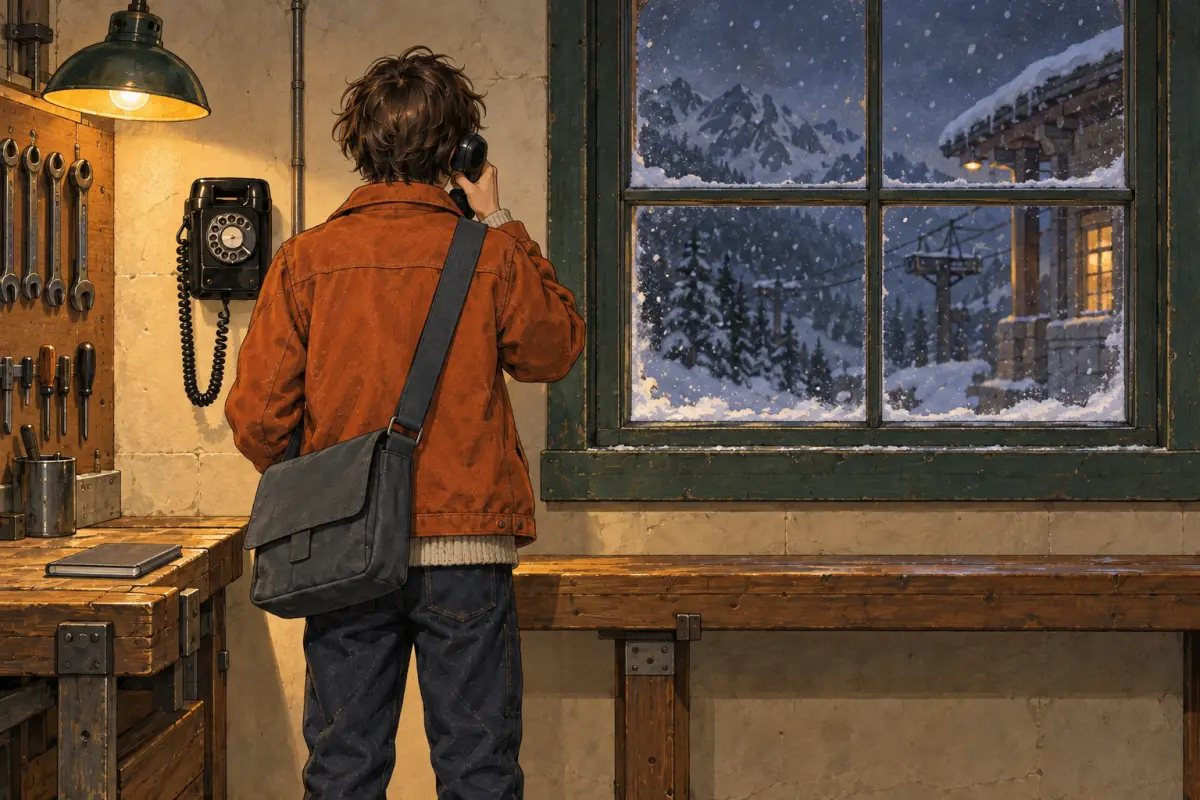
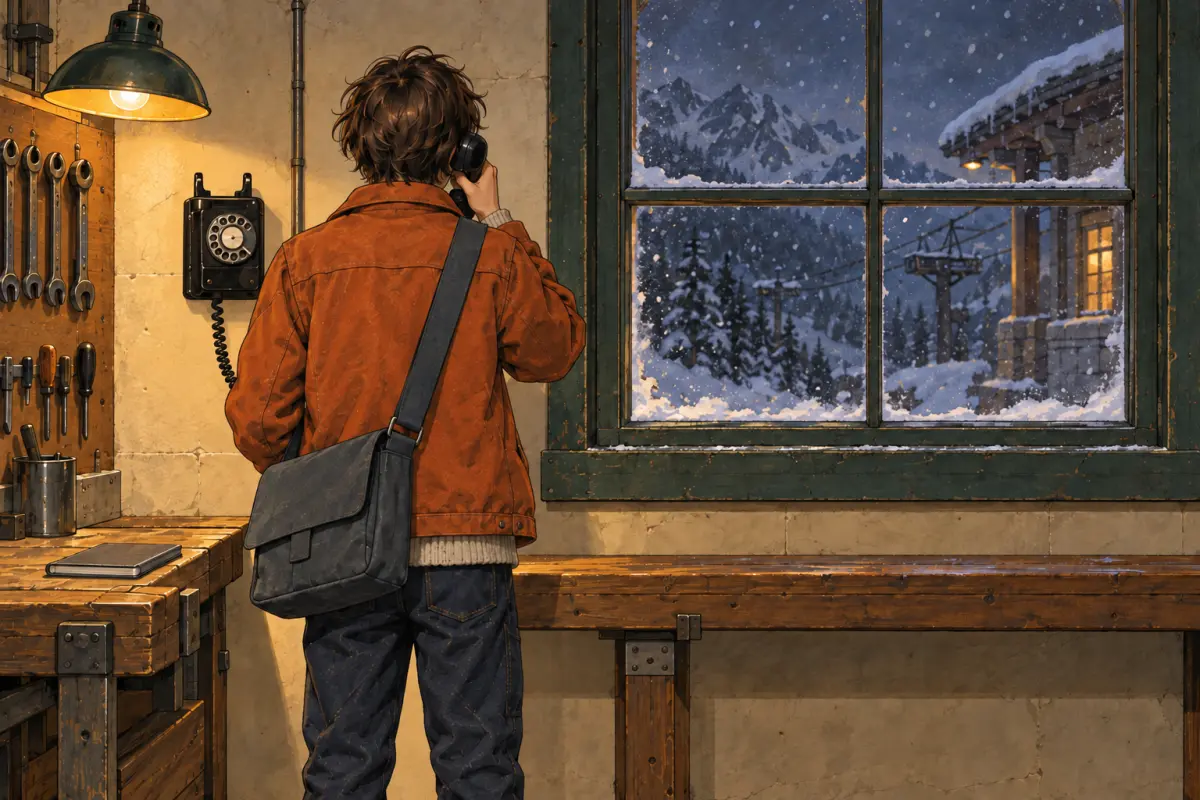
Complete Last Skyway illustrations and full-pack art QA

diff --git a/docs/last-skyway/art-review.md b/docs/last-skyway/art-review.md
@@ -2,7 +2,8 @@
 
 ## Production status
 
-All ten reference sheets reviewed; zero of 48 scene illustrations generated.
+All ten reference sheets and all 48 unique scene illustrations are complete and reviewed.
+Final owner integration review and checks are recorded below.
 Independent continuity round 3 passed in commit `1a6d072`, merged here. The
 manuscript SHA-256 and reviewer stamp both equal
[1 lines of base64/hex data omitted]
@@ -50,7 +51,7 @@ inspection. Full PNG originals and rejected versions remain in ignored
 - Early-failure crossover remains unselected; shared endings must not assert
   optional docking, wrap or machinery outcomes.
 
-Scene production will use three disjoint Astra Medium worktree batches of sixteen
+Scene production used three disjoint Astra Medium worktree batches of sixteen
 pages. Every page maps to at most five full reference files; direct attachments
 cover every required sheet, without packing or dropping references.
 
@@ -75,9 +76,8 @@ recording their approval hashes. Conversion was q88 without resizing. Generation
 used each manifest brief with explicit reference-role constraints; rejected
 versions remain under art-src/references/corrections.
 
-Validation so far: story-dump completed; eight focused Last Skyway regression
-tests passed on the pre-correction manuscript. These do not replace the pending
-independent continuity pass or final art checks.
+Historical reference-stage validation: story-dump completed and eight early
+regressions passed. Superseded by the final manuscript checks below.
 
 ## Machinery reference review
 
@@ -109,7 +109,7 @@ Checks after manuscript corrections: npm run check PASS across all six packs;
 Last Skyway 48 pages, ten reachable endings, 7,401 states and zero errors/warnings.
 Focused Last Skyway regressions PASS, 13/13.
 
-## Active scene batches
+## Scene batch provenance
 
 Reference/export checkpoint: `17b96ce`. Three app-owned isolated worktrees, each
 assigned exactly sixteen disjoint pages, launched with explicit provider `codex`,
@@ -131,3 +131,141 @@ Task ID prefix for all three: `node:delegated-task:command%3Amcp%3A42411c37-e2a2
 Every call must attach the page's complete reference set. Each worker owns only
 assigned assets and its batch report, inspects originals before q75 conversion,
 and commits those assets. Parent retains cross-batch visual QA and merge work.
+
+## Final owner integration and visual review — 2026-10-14
+
+Merged return `9814693250cffde1acd8628c972042eee0d64afb` and ridge
+`4efd76dbfec010372f6c051829ad413f3fef9ac3` normally into
+`t3/last-skyway-illustrations`. Opening task terminated after saving all sixteen
+originals and WebPs, before its final report/commit. Its authoritative status was
+failed, with no pending child run: “You’ve hit your usage limit”, retry date
+October 20, 2026 08:01. Earlier broken-pipe retry was not treated as terminal.
+No worker was duplicated or restarted. Owner recovered the sixteen uncommitted
+opening assets from its assigned worktree, preserving the source worktree.
+The opening durable timeline records generation, corrections and conversions;
+its final C02 PNG/WebP were saved before the quota failure. Opening has no
+producer completion commit; owner review and validation complete that handoff.
+
+All 48 original PNGs were copied byte-for-byte into this owner's ignored
+`stories/last-skyway/art-src/`. Worker rejects and other QA artifacts are under
+`art-src/worker-archive/{opening,ridge,return}/`; approved reference originals
+remain under `art-src/references/`. Worker worktrees were not removed.
+All images were produced by the verified Astra Medium runs using built-in
+image_gen, with the exported page reference sets. No placeholders, generic
+substitutes or duplicate scene files were used. Reference/export checkpoint
+remains `17b96ce`; manuscript/style/cast/prompts were not changed during scene QA.
+
+Owner opened every one of the 48 original 1536×1024 images at original resolution
+and inspected three converted sixteen-image contact sheets for cross-batch
+identity, wardrobe, anatomy, bag straps, props, weather, location and route
+invariants. This is owner integration QA separate from producer QA, not a new
+independent manuscript review. Checks included:
+
+- A01–A06: cupboard bell, telephone conversations, model support/haul separation,
+  weather desk; Imani identity and hidden apprentice face remain consistent.
+- B01–B08: optional investigations confined to their pages; wind evidence is
+  paper-only; fitted wrap absent during packing; closed gallery latch and
+  square-shouldered key; fully enclosed corridor; Sol at clock landing.
+  Opening worker had archived B08 for possible clock/weather refinement before
+  failing. Owner reviewed the saved scene: stopped clock at four and cloudy
+  late-afternoon light fit the teatime scene; no additional correction needed.
+- C01–C08: enclosed stairs/lift and landing; Sol present; guards closed; battery
+  test separate; limited inspection does not assert route tracing. C07's white
+  window edges are frost/condensation, not falling snow.
+- D01–D08: one stationary cabin, west shed/east wall guides, cloud without snow,
+  unsigned/open planning, untouched selector, physical pin inspection, bare
+  closed plate box before wrapping on both arrivals, sealed floor hatch.
+- F01–F08: actual blue ribbon on the outside crossover mast visible from cabin;
+  white settled pointer valid on both governor outcomes; wall-side return;
+  enclosed bridge and docked platform distinguished; optional cargo/passengers
+  cropped; handover and tea avoid unsupported certification outcomes.
+- E01–E10: correct remaining cast and snowy ending timing; E02 telephone crop
+  works for local and gallery-return aborts; early refuge failure has no selected
+  guide; cradle hardware is horizontal at floor height; closed wrapped box has
+  exactly two orange straps; shared endings hide optional outcomes; E10 is the
+  separate greenhouse with Sol, seedlings and guarded radiator.
+
+Owner found and corrected E02's duplicated telephone handset using one built-in
+image_gen edit: target plus all three complete page refs (apprentice,
+valley-workshop, refuge-and-greenhouse). Removed the handset resting on the base,
+left empty cradle hooks, and retained the single handset held to the apprentice's
+ear. No prompt/style/manuscript change. Reviewed corrected 1536×1024 output and
+q75 conversion; old original preserved in `art-src/corrections/E02-duplicate-handset.png`.
+Generation succeeded after the user's usage-reset notice. No unresolved visual
+issue identified in final owner review.
+
+## Final validation
+
+- 48/48 original PNGs 1536×1024; 48/48 game WebPs 1200×800. Every WebP exactly
+  byte-matches a fresh `cwebp -q 75 -resize 1200 800` conversion of its original.
+  All 48 original hashes and all 48 WebP hashes are unique.
+- `npm run test:art`: 8/10 pass. Last Skyway coverage and all reference validation
+  tests PASS. Only failures: Player Two missing 19 assets and Midnight Signal
+  missing 46 assets in this owner checkout. No gates weakened.
+- `npx tsx --test scripts/last-skyway-regressions.test.ts`: 13/13 PASS.
+- `npm run check`: PASS all six registered packs; Last Skyway 48 pages, 10/10
+  reachable endings, 7,401 states, 19,795 playthroughs, zero errors/warnings.
+- Story SHA and independent round3 stamp still match
[1 lines of base64/hex data omitted]
+- T3 collaborative browser on owner Vite port 5193 loaded and decoded all 48
+  final assets at 1200×800, zero failures. Started the actual reader and visually
+  inspected A01 rendered beside its story text. This is image-loading and reader
+  smoke verification, not an exhaustive manual playthrough of every route.
+- Browser QA script initially used a named `story` import (undefined `.pages`),
+  then an invalid top-level-await expression; corrected to an async function
+  importing the default export. Final 48-image browser check passed.
+- Originals remain ignored. No shared code, story, registration or other pack
+  edited by this art integration. No push or main merge.
+
+## Final accepted asset hashes
+
+| Page | Original PNG SHA-256 | Game WebP SHA-256 |
+|---|---|---|
[48 lines of base64/hex data omitted]
